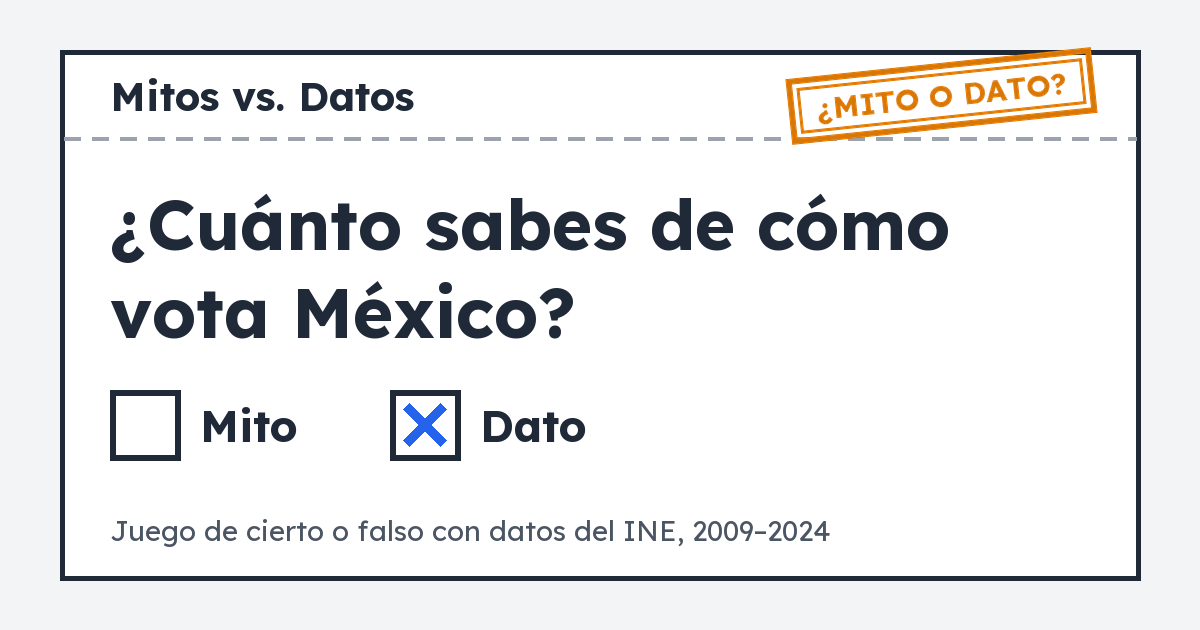
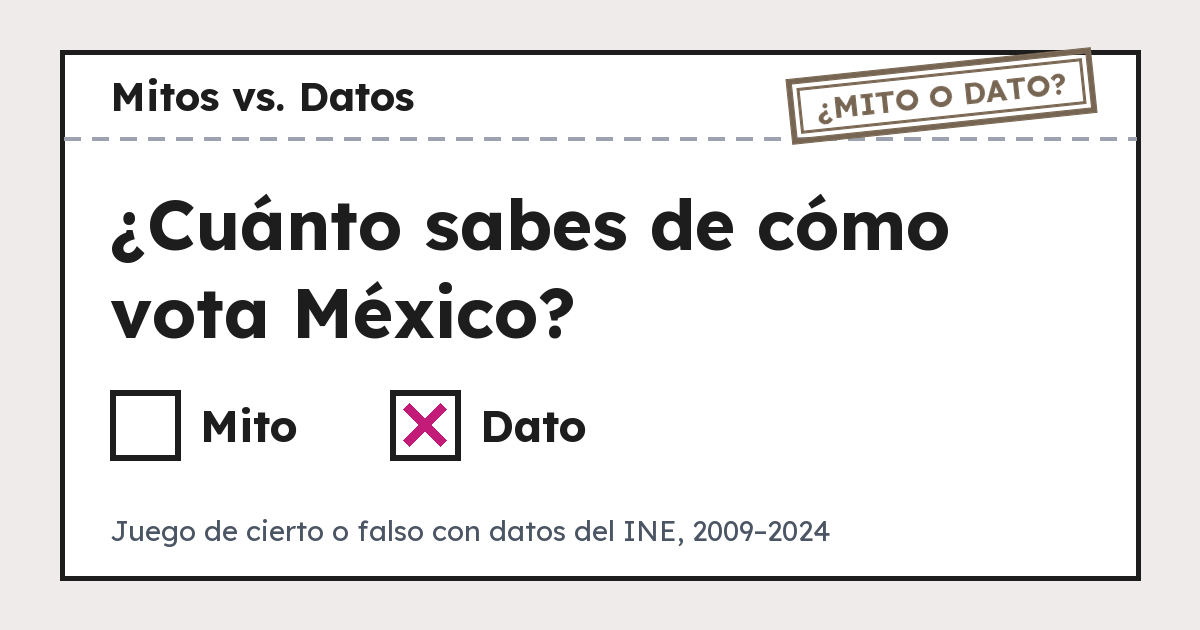
Paleta del INE: rosa #C31C78, dorado oscuro #766552 y fondo #EFEBEB
Colores tomados de las hojas de estilo de ine.mx. El rosa sobre blanco tiene
5.6:1 y el dorado oscuro 5.6:1 (AA); el dorado claro #C5A989 no se usa porque
no llega a AA. El mapa del atlas pasa a siete tonos de rosa. Se regeneraron
las imágenes (vista previa, QR, íconos) y la guía. AGENTS.md (regla 4) y el
README describen la nueva paleta.

diff --git a/site/js/graficas.js b/site/js/graficas.js
@@ -5,7 +5,7 @@
  */
 const Graficas = (() => {
   const SVG = "http://www.w3.org/2000/svg";
-  const COLORES = { datos: "#2563EB", base: "#6B7280", acento: "#D97706", pista: "#E5E7EB" };
+  const COLORES = { datos: "#C31C78", base: "#6B7280", acento: "#766552", pista: "#E5E7EB" };
   const sinMovimiento = window.matchMedia("(prefers-reduced-motion: reduce)").matches;
   let contadorId = 0;
   // Factor del tamaño de letra elegido (1 = 16 px): la geometría crece con el texto.
@@ -216,7 +216,7 @@ const Graficas = (() => {
         texto(svg, x + col / 2, y(v) - 6, v.toFixed(1), { class: "valor aparece", "text-anchor": "middle" });
       });
     });
-    el("line", { x1: m.izq, x2: ancho - m.der, y1: y(0), y2: y(0), stroke: "#1F2937" }, svg);
+    el("line", { x1: m.izq, x2: ancho - m.der, y1: y(0), y2: y(0), stroke: "#1D1D1D" }, svg);
     return svg;
   }
 
@@ -267,7 +267,7 @@ const Graficas = (() => {
       const voto = i < si;
       el("rect", {
         x, y, width: lado, height: lado, rx: 2, fill: "#FFFFFF",
-        stroke: voto ? "#1F2937" : COLORES.base, "stroke-width": voto ? trazo * 0.8 : trazo * 0.6,
+        stroke: voto ? "#1D1D1D" : COLORES.base, "stroke-width": voto ? trazo * 0.8 : trazo * 0.6,
       }, svg);
       if (voto) {
         const m = lado * 0.24;
@@ -281,7 +281,7 @@ const Graficas = (() => {
     // Leyenda con texto: no depende del color.
     const yl = rejilla + altoLeyenda - 8 * k;
     const caja = 16 * k;
-    el("rect", { x: 0, y: yl - caja + 3, width: caja, height: caja, rx: 2, fill: "#FFFFFF", stroke: "#1F2937", "stroke-width": 2 }, svg);
+    el("rect", { x: 0, y: yl - caja + 3, width: caja, height: caja, rx: 2, fill: "#FFFFFF", stroke: "#1D1D1D", "stroke-width": 2 }, svg);
     el("path", { d: `M3,${yl - caja + 6} L${caja - 3},${yl} M${caja - 3},${yl - caja + 6} L3,${yl}`, stroke: COLORES.datos, "stroke-width": 2.5, fill: "none" }, svg);
     texto(svg, caja + 8, yl, TEXTOS.graficas.leyendaSi(si), { class: "etiqueta", "font-weight": 700 });
     const x2 = rejilla / 2 + 8;

diff --git a/site/js/atlas-graficas.js b/site/js/atlas-graficas.js
@@ -1,10 +1,10 @@
 /*
- * Atlas de la participación: gráficas SVG de la comparación: tu estado (azul) frente a México (gris).
+ * Atlas de la participación: gráficas SVG de la comparación: tu estado (rosa INE) frente a México (gris).
  * Son decorativas para el lector de pantalla: cada una tiene su tabla con los mismos datos.
  */
 const GraficasAtlas = (() => {
   const NS = "http://www.w3.org/2000/svg";
-  const C = { estado: "#2563EB", pais: "#6B7280", base: "#E5E7EB", tinta: "#1F2937", suave: "#4B5563" };
+  const C = { estado: "#C31C78", pais: "#6B7280", base: "#E5E7EB", tinta: "#1D1D1D", suave: "#4B5563" };
   const el = (tag, attrs = {}, padre) => {
     const n = document.createElementNS(NS, tag);
     Object.entries(attrs).forEach(([k, v]) => n.setAttribute(k, v));
@@ -55,7 +55,7 @@ const GraficasAtlas = (() => {
     }
     anios.forEach((a, i) => {
       if (String(a) === String(anioActivo)) {
-        el("rect", { x: x(i) - 18 * k, y: m.arr - 8, width: 36 * k, height: alto - m.arr - m.aba + 8, fill: "#F3F4F6" }, svg);
+        el("rect", { x: x(i) - 18 * k, y: m.arr - 8, width: 36 * k, height: alto - m.arr - m.aba + 8, fill: "#EFEBEB" }, svg);
       }
       txt(svg, x(i), alto - 8 * k, a, { "text-anchor": "middle", class: "at-eje", "font-weight": String(a) === String(anioActivo) ? 700 : 400 });
     });
@@ -78,7 +78,7 @@ const GraficasAtlas = (() => {
       const y0 = i * fila;
       txt(svg, 0, y0 + grosor + 4 * k, c, { class: "at-cat" });
       [[estado[i], C.estado, 0], [pais[i], C.pais, grosor + hueco]].forEach(([v, col, dy]) => {
-        el("rect", { x: etq, y: y0 + dy, width: largo, height: grosor, fill: "#F3F4F6", rx: 2 }, svg);
+        el("rect", { x: etq, y: y0 + dy, width: largo, height: grosor, fill: "#EFEBEB", rx: 2 }, svg);
         if (v == null) {
           txt(svg, etq + 6, y0 + dy + grosor - 3 * k, TEXTOS.atlas.compara.sinDato, { class: "at-valor sin" });
           return;

diff --git a/site/css/estilos.css b/site/css/estilos.css
@@ -12,16 +12,19 @@
 
 /*
  * Identidad: la boleta y el cuadernillo de la lista nominal.
- * Paleta permitida: tinta #1F2937, marca/datos #2563EB, base #E5E7EB, sello #D97706, blanco y grises neutros.
+ * Paleta del INE (tomada de ine.mx): tinta #1D1D1D, marca/datos rosa #C31C78, base #E5E7EB,
+ * sello dorado oscuro #766552, blanco y grises neutros. El dorado claro del INE (#C5A989) no se usa:
+ * no llega al contraste AA sobre blanco.
+ * --azul y --ambar conservan su nombre histórico: hoy son el rosa y el dorado del INE.
  */
 :root {
-  --tinta: #1F2937;
+  --tinta: #1D1D1D;
   --tinta-suave: #4B5563;
-  --azul: #2563EB;
+  --azul: #C31C78;
   --base: #E5E7EB;
-  --ambar: #D97706;
+  --ambar: #766552;
   --papel: #FFFFFF;
-  --mesa: #F3F4F6;
+  --mesa: #EFEBEB;
   --perforado: #9CA3AF;
   --gris-graf: #6B7280;
   /* Escala de espacios: todo margen, relleno y separación sale de aquí. */
@@ -361,7 +364,7 @@ svg .aparece.inicio { opacity: 0; }
 }
 
 @media (prefers-contrast: more) {
-  :root { --tinta-suave: #1F2937; --perforado: #4B5563; }
+  :root { --tinta-suave: #1D1D1D; --perforado: #4B5563; }
 }
 
 @media (prefers-reduced-motion: reduce) {

diff --git a/site/js/juego.js b/site/js/juego.js
@@ -1001,7 +1001,7 @@
     });
   }
 
-  // 10 x 10 casillas de boleta en el canvas, con X azul en las que votaron.
+  // 10 x 10 casillas de boleta en el canvas, con X de color de marca en las que votaron.
   function dibujarUnidades(ctx, x0, y0, lado, si, C) {
     const sep = 4;
     const celda = (lado - 9 * sep) / 10;
@@ -1038,9 +1038,9 @@
     const qr = await cargarImagen("img/qr.png");
     const total = estado.mitos.length;
     const anios = estado.datosPerfil.edad.anios;
-    const C = { tinta: "#1F2937", suave: "#4B5563", azul: "#2563EB", ambar: "#D97706", gris: "#6B7280", perf: "#9CA3AF" };
+    const C = { tinta: "#1D1D1D", suave: "#4B5563", azul: "#C31C78", ambar: "#766552", gris: "#6B7280", perf: "#9CA3AF" };
 
-    ctx.fillStyle = "#F3F4F6";
+    ctx.fillStyle = "#EFEBEB";
     ctx.fillRect(0, 0, W, H);
 
     // Hoja con talón perforado

diff --git a/site/index.html b/site/index.html
@@ -33,8 +33,8 @@
   <header class="barra">
     <a class="marca" href="#portada" data-ir="portada">
       <svg class="marca-icono" viewBox="0 0 28 28" aria-hidden="true">
-        <rect x="2" y="2" width="24" height="24" rx="3" fill="#FFFFFF" stroke="#1F2937" stroke-width="2.5"/>
-        <path d="M8 8 L20 20 M20 8 L8 20" stroke="#2563EB" stroke-width="3.5" stroke-linecap="round"/>
+        <rect x="2" y="2" width="24" height="24" rx="3" fill="#FFFFFF" stroke="#1D1D1D" stroke-width="2.5"/>
+        <path d="M8 8 L20 20 M20 8 L8 20" stroke="#C31C78" stroke-width="3.5" stroke-linecap="round"/>
       </svg>
       <span>Mitos vs. Datos</span>
     </a>

diff --git a/site/imprimible.html b/site/imprimible.html
@@ -16,8 +16,8 @@
   <header class="barra no-imprimir">
     <a class="marca" href="./">
       <svg class="marca-icono" viewBox="0 0 28 28" aria-hidden="true">
-        <rect x="2" y="2" width="24" height="24" rx="3" fill="#FFFFFF" stroke="#1F2937" stroke-width="2.5"/>
-        <path d="M8 8 L20 20 M20 8 L8 20" stroke="#2563EB" stroke-width="3.5" stroke-linecap="round"/>
+        <rect x="2" y="2" width="24" height="24" rx="3" fill="#FFFFFF" stroke="#1D1D1D" stroke-width="2.5"/>
+        <path d="M8 8 L20 20 M20 8 L8 20" stroke="#C31C78" stroke-width="3.5" stroke-linecap="round"/>
       </svg>
       <span>Mitos vs. Datos</span>
     </a>

diff --git a/site/js/mapa.js b/site/js/mapa.js
@@ -4,9 +4,9 @@
  */
 const Mapa = (() => {
   const NS = "http://www.w3.org/2000/svg";
-  // Escala fija para todos los años: así 2021 se ve más claro que 2024.
+  // Escala fija para todos los años (tonos del rosa INE): así 2021 se ve más claro que 2024.
   const CORTES = [45, 50, 55, 60, 65, 70];
-  const COLORES = ["#E4ECFC", "#C2D4FA", "#93B3F5", "#5E8DEF", "#2563EB", "#1E4BB8", "#1E3A7B"];
+  const COLORES = ["#FBE8F2", "#F4C3DD", "#E893C0", "#D9579D", "#C31C78", "#931C63", "#5C1240"];
   const sinMovimiento = () => matchMedia("(prefers-reduced-motion: reduce)").matches;
 
   let svg, geo, atlas, porClave, vista, animacion;

diff --git a/site/guia.html b/site/guia.html
@@ -13,8 +13,8 @@
   <header class="barra">
     <a class="marca" href="./">
       <svg class="marca-icono" viewBox="0 0 28 28" aria-hidden="true">
-        <rect x="2" y="2" width="24" height="24" rx="3" fill="#FFFFFF" stroke="#1F2937" stroke-width="2.5"/>
-        <path d="M8 8 L20 20 M20 8 L8 20" stroke="#2563EB" stroke-width="3.5" stroke-linecap="round"/>
+        <rect x="2" y="2" width="24" height="24" rx="3" fill="#FFFFFF" stroke="#1D1D1D" stroke-width="2.5"/>
+        <path d="M8 8 L20 20 M20 8 L8 20" stroke="#C31C78" stroke-width="3.5" stroke-linecap="round"/>
       </svg>
       <span>Mitos vs. Datos</span>
     </a>

diff --git a/site/css/atlas.css b/site/css/atlas.css
@@ -2,6 +2,7 @@
  * Pestaña «Atlas de la participación» de «Ver los datos».
  * Todo va con el prefijo at- para no chocar con los estilos del juego.
  * --at-encabezado lo pone atlas.js con el alto real de la barra.
+ * La escala del mapa (siete tonos de rosa INE) está en js/mapa.js.
  */
 :root { --at-encabezado: 4.25rem; }
 

diff --git a/scripts/generar_imagenes.py b/scripts/generar_imagenes.py
@@ -24,11 +24,11 @@ IMG = RAIZ / "site" / "img"
 FUENTE = RAIZ / "scripts" / "recursos" / "Lexend[wght].ttf"
 URL_SITIO = "https://smorentin0-cloud.github.io/mitos-vs-datos-ccpc/"
 
-TINTA = "#1F2937"
+TINTA = "#1D1D1D"
 TINTA_SUAVE = "#4B5563"
-AZUL = "#2563EB"
-AMBAR = "#D97706"
-MESA = "#F3F4F6"
+AZUL = "#C31C78"
+AMBAR = "#766552"
+MESA = "#EFEBEB"
 PERFORADO = "#9CA3AF"
 
 
@@ -101,7 +101,7 @@ def codigo_qr() -> None:
 
 
 def icono(lado: int) -> None:
-    """Recuadro de boleta con la X azul, con margen para recortes redondos."""
+    """Recuadro de boleta con la X de color de marca (rosa INE), con margen para recortes redondos."""
     img = Image.new("RGB", (lado, lado), "white")
     d = ImageDraw.Draw(img)
     m = lado * 0.2

diff --git a/scripts/generar_guia.py b/scripts/generar_guia.py
@@ -95,8 +95,8 @@ PLANTILLA = """<!doctype html>
   <header class="barra">
     <a class="marca" href="./">
       <svg class="marca-icono" viewBox="0 0 28 28" aria-hidden="true">
-        <rect x="2" y="2" width="24" height="24" rx="3" fill="#FFFFFF" stroke="#1F2937" stroke-width="2.5"/>
-        <path d="M8 8 L20 20 M20 8 L8 20" stroke="#2563EB" stroke-width="3.5" stroke-linecap="round"/>
+        <rect x="2" y="2" width="24" height="24" rx="3" fill="#FFFFFF" stroke="#1D1D1D" stroke-width="2.5"/>
+        <path d="M8 8 L20 20 M20 8 L8 20" stroke="#C31C78" stroke-width="3.5" stroke-linecap="round"/>
       </svg>
       <span>Mitos vs. Datos</span>
     </a>

diff --git a/AGENTS.md b/AGENTS.md
@@ -38,7 +38,7 @@ Ejemplo fuerte para la presentación: en **Colima**, 4 de los 8 mitos nacionales
 1. **Privacidad.** Edad, estado elegido, municipio, respuestas, estimaciones y compromiso viven solo en memoria. Sin `localStorage`, `sessionStorage`, cookies ni analítica. No se envían a ningún servidor ni van en la URL. El enlace de reto solo lleva la edición pública (`entidad=N`, que es la página, no un dato de la persona) y el puntaje (`reto=P-T`).
 2. **Toda cifra sale de `scripts/procesar.py`** (o de `scripts/procesar_atlas.py`, en el atlas). No escribas números a mano en HTML, JS ni documentos. No inventes cifras ni resultados de pruebas con usuarios.
 3. **Veredictos binarios (Cierto / Falso) que no cambian.** Nada de «parcialmente cierto». Si una frase no se puede verificar en las 6 elecciones, se reformula. El dato local complementa, pero nunca cambia el sello nacional.
-4. **Paleta neutral, sin colores de partidos:** `#1F2937`, `#2563EB`, `#E5E7EB`, `#D97706`, blanco y grises.
+4. **Paleta del INE, sin colores de partidos** (tomada de ine.mx): tinta `#1D1D1D`, rosa `#C31C78` (marca y datos), base `#E5E7EB`, dorado oscuro `#766552` (sello y foco), fondo `#EFEBEB`, blanco y grises. El mapa del atlas usa siete tonos del rosa. No uses el dorado claro `#C5A989` en texto ni en el foco: no llega a AA.
 5. **Sin frameworks ni paso de compilación.** HTML, CSS y JavaScript sin dependencias; Python + pandas para los datos.
 6. **Accesibilidad AA:** teclado, foco visible, `aria-live`, botones de al menos 44 px, `prefers-reduced-motion`, alto contraste, A / A+ / A++ sin scroll lateral, y el botón Voz debe leer todo (también lo plegado).
 7. **«Una pantalla, una idea, una acción principal».** Un solo botón primario por pantalla o paso, como máximo un contenedor con borde, un titular dominante. Espacios con las variables `--esp-1` a `--esp-6`.
